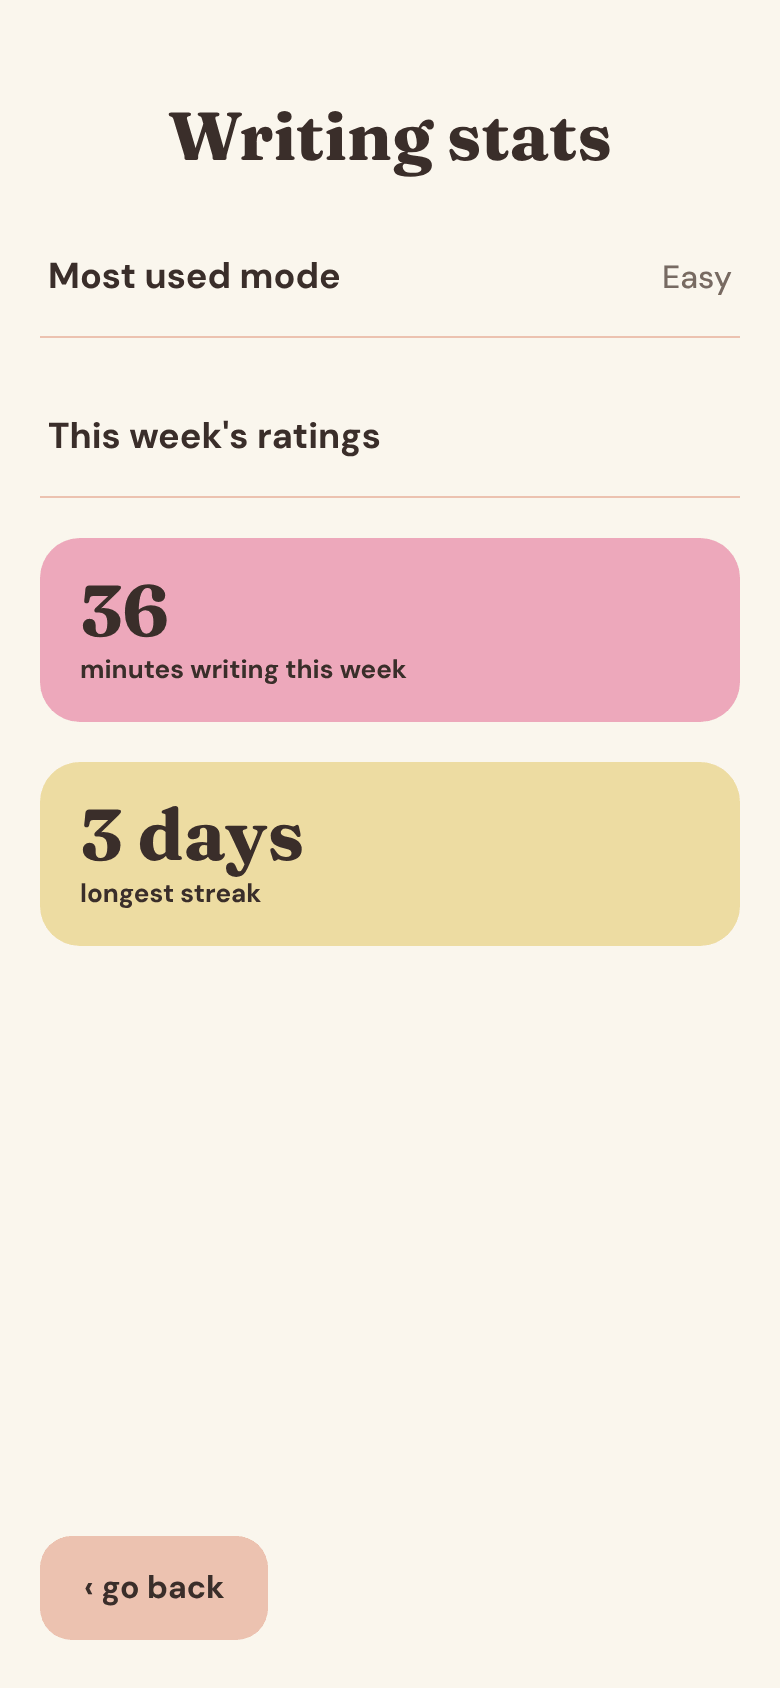
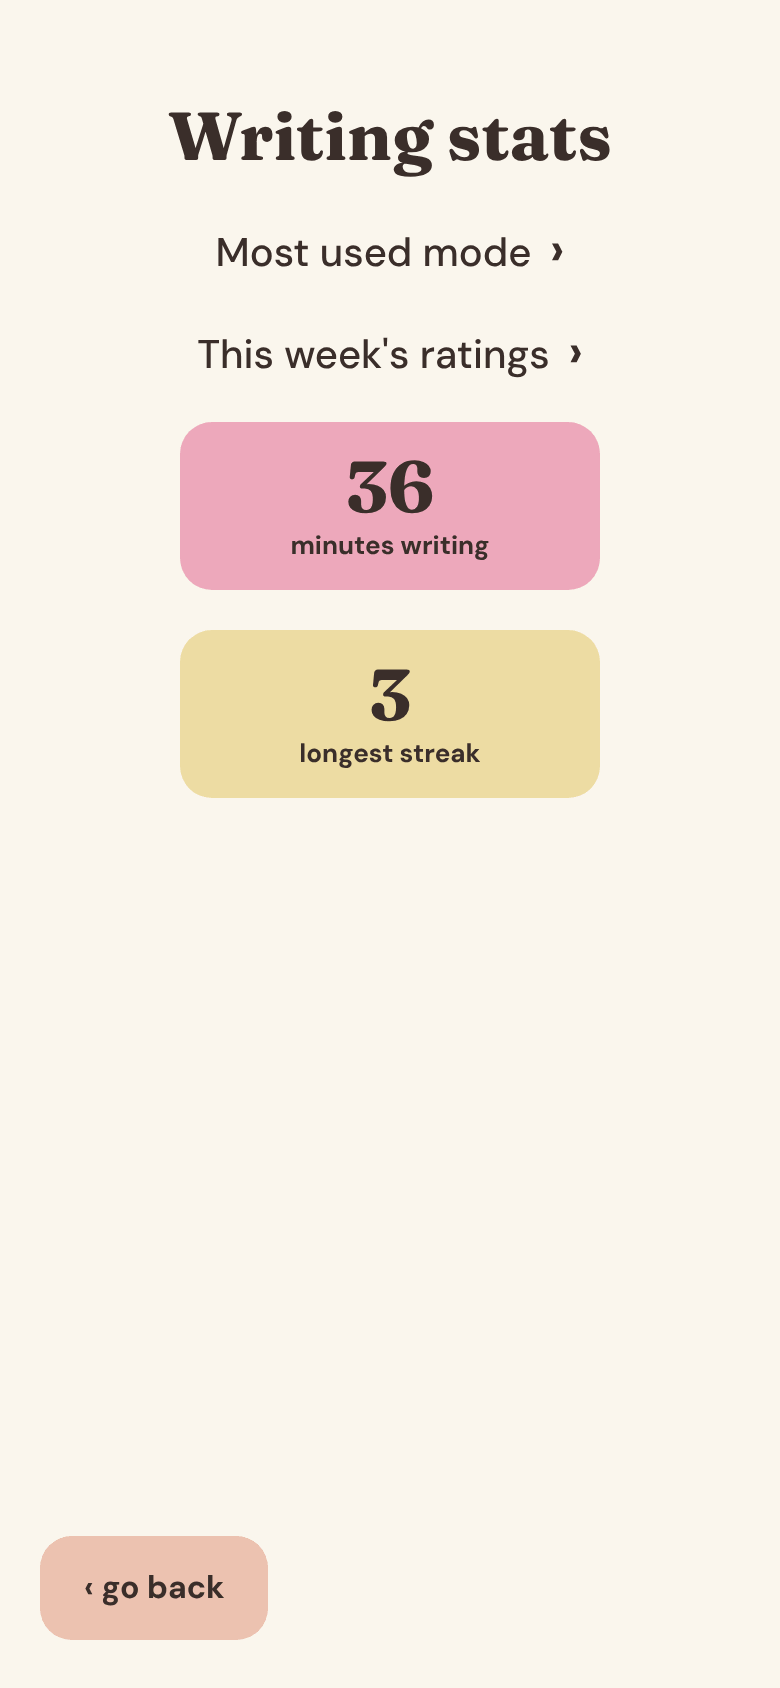
Lay out Writing stats like Allison's drawing, with arrows and minutes writing

Changed region(s): [[0.0308, 0.1232, 0.9538, 0.5853], [0.8308, 0.154, 0.9231, 0.1848]]

diff --git a/index.html b/index.html
@@ -52,7 +52,7 @@
     <figure><figcaption><b>14. Profile</b><span>Picture, streaks, entries, status, levels and words.</span></figcaption><a href="images/profile.png"><img src="images/profile.png" alt="Profile screen" width="300" loading="lazy"></a></figure>
     <figure><figcaption><b>15. See past entries</b><span>Your entries with their dates.</span></figcaption><a href="images/past-entries.png"><img src="images/past-entries.png" alt="See past entries screen" width="300" loading="lazy"></a></figure>
     <figure><figcaption><b>16. Organize by</b><span>Date, mode or word count.</span></figcaption><a href="images/past-entries-organize.png"><img src="images/past-entries-organize.png" alt="Organize by screen" width="300" loading="lazy"></a></figure>
-    <figure><figcaption><b>17. Writing stats</b><span>Most used mode, minutes and longest streak.</span></figcaption><a href="images/writing-stats.png"><img src="images/writing-stats.png" alt="Writing stats screen" width="300" loading="lazy"></a></figure>
+    <figure><figcaption><b>17. Writing stats</b><span>Most used mode, this week's ratings, minutes writing and longest streak.</span></figcaption><a href="images/writing-stats.png"><img src="images/writing-stats.png" alt="Writing stats screen" width="300" loading="lazy"></a></figure>
     <figure><figcaption><b>18. Favorite entries</b><span>Each favorite is a clover. Tap the bookmark to unfavorite.</span></figcaption><a href="images/favorites.png"><img src="images/favorites.png" alt="Favorite entries screen" width="300" loading="lazy"></a></figure>
     <figure><figcaption><b>19. Favorite entries, empty</b><span>Before you pick any favorites.</span></figcaption><a href="images/favorites-empty.png"><img src="images/favorites-empty.png" alt="Favorite entries with none picked" width="300" loading="lazy"></a></figure>
   </div>

diff --git a/app/index.html b/app/index.html
@@ -271,10 +271,11 @@
   <!-- ===================== WRITING STATS ===================== -->
   <section class="screen" data-screen="stats" hidden>
     <h1 class="title center stats-title">Writing stats</h1>
-    <div class="stat-row"><span>Most used mode</span><b id="s-mode">None yet</b></div>
-    <div class="stat-row"><span>This week's ratings</span><b id="s-ratings"></b></div>
-    <div class="card bg-pink stat-card"><span class="b-big lg" id="s-minutes">0</span><span class="b-label">minutes writing this week</span></div>
-    <div class="card bg-yellow stat-card"><span class="b-big lg" id="s-longest">0 days</span><span class="b-label">longest streak</span></div>
+    <!-- Laid out like Allison's drawing. The arrows don't open anything yet. -->
+    <div class="stat-link">Most used mode <span class="stat-arrow" aria-hidden="true">›</span></div>
+    <div class="stat-link">This week's ratings <span class="stat-arrow" aria-hidden="true">›</span></div>
+    <div class="stat-box bg-pink"><span class="b-big lg" id="s-minutes">0</span><span class="b-label">minutes writing</span></div>
+    <div class="stat-box bg-yellow"><span class="b-big lg" id="s-longest">0</span><span class="b-label">longest streak</span></div>
     <a href="#entries" class="btn bg-orange push-down self-start">‹ go back</a>
   </section>
 

diff --git a/app/app.js b/app/app.js
@@ -555,15 +555,9 @@
   // ===================== WRITING STATS =====================
   function renderStats() {
     const entries = getEntries();
-    const counts = { easy: 0, medium: 0, hard: 0 };
-    entries.forEach((e) => { if (e.level in counts) counts[e.level]++; });
-    const top = Object.keys(counts).sort((a, b) => counts[b] - counts[a])[0];
-    $('#s-mode').textContent = entries.length ? LEVELS[top].label : '';
-    const weekAgo = new Date(); weekAgo.setDate(weekAgo.getDate() - 6);
-    const since = dayKey(weekAgo);
-    $('#s-minutes').textContent = entries.filter((e) => e.date >= since).reduce((sum, e) => sum + (e.minutes || 0), 0);
+    $('#s-minutes').textContent = entries.reduce((sum, e) => sum + (e.minutes || 0), 0);   // all your writing time
     const longest = streaks(entries).longest;
-    $('#s-longest').textContent = longest + (longest === 1 ? ' day' : ' days');
+    $('#s-longest').textContent = longest;
   }
 
   // ---------- Popups ----------

diff --git a/app/styles.css b/app/styles.css
@@ -211,9 +211,9 @@ a.tile { text-decoration: none; }
 
 /* ---------- Writing stats ---------- */
 .stats-title { margin-top: 24px; }
-.stat-row { display: flex; justify-content: space-between; align-items: center; min-height: 60px; padding: 0 4px; border-bottom: 1px solid var(--orange); font-size: 18px; font-weight: 600; }
-.stat-row b { font-size: 16px; font-weight: 500; color: var(--muted); }
-.stat-card { display: flex; flex-direction: column; gap: 4px; padding: 18px 20px; }
+.stat-link { text-align: center; font-size: 20px; font-weight: 500; }
+.stat-arrow { font-size: 24px; font-weight: 700; margin-left: 4px; }
+.stat-box { align-self: center; width: 210px; border-radius: 16px; padding: 14px 16px; display: flex; flex-direction: column; align-items: center; text-align: center; gap: 4px; }
 
 /* ---------- Word definitions in the word bank ---------- */
 .word[aria-pressed="true"] { border-color: var(--ink); }

diff --git a/app/sw.js b/app/sw.js
@@ -1,6 +1,6 @@
 // Lets the app open even without internet, after the first visit.
 // When you change any app file, bump the version number so phones get the update.
-const CACHE = 'wpa-v15';
+const CACHE = 'wpa-v17';
 const FILES = ['./', 'index.html', 'styles.css', 'data.js', 'app.js', 'cloud.js', 'manifest.webmanifest',
   'icons/icon-192.png', 'icons/icon-512.png', 'icons/apple-touch-icon.png'];
 
